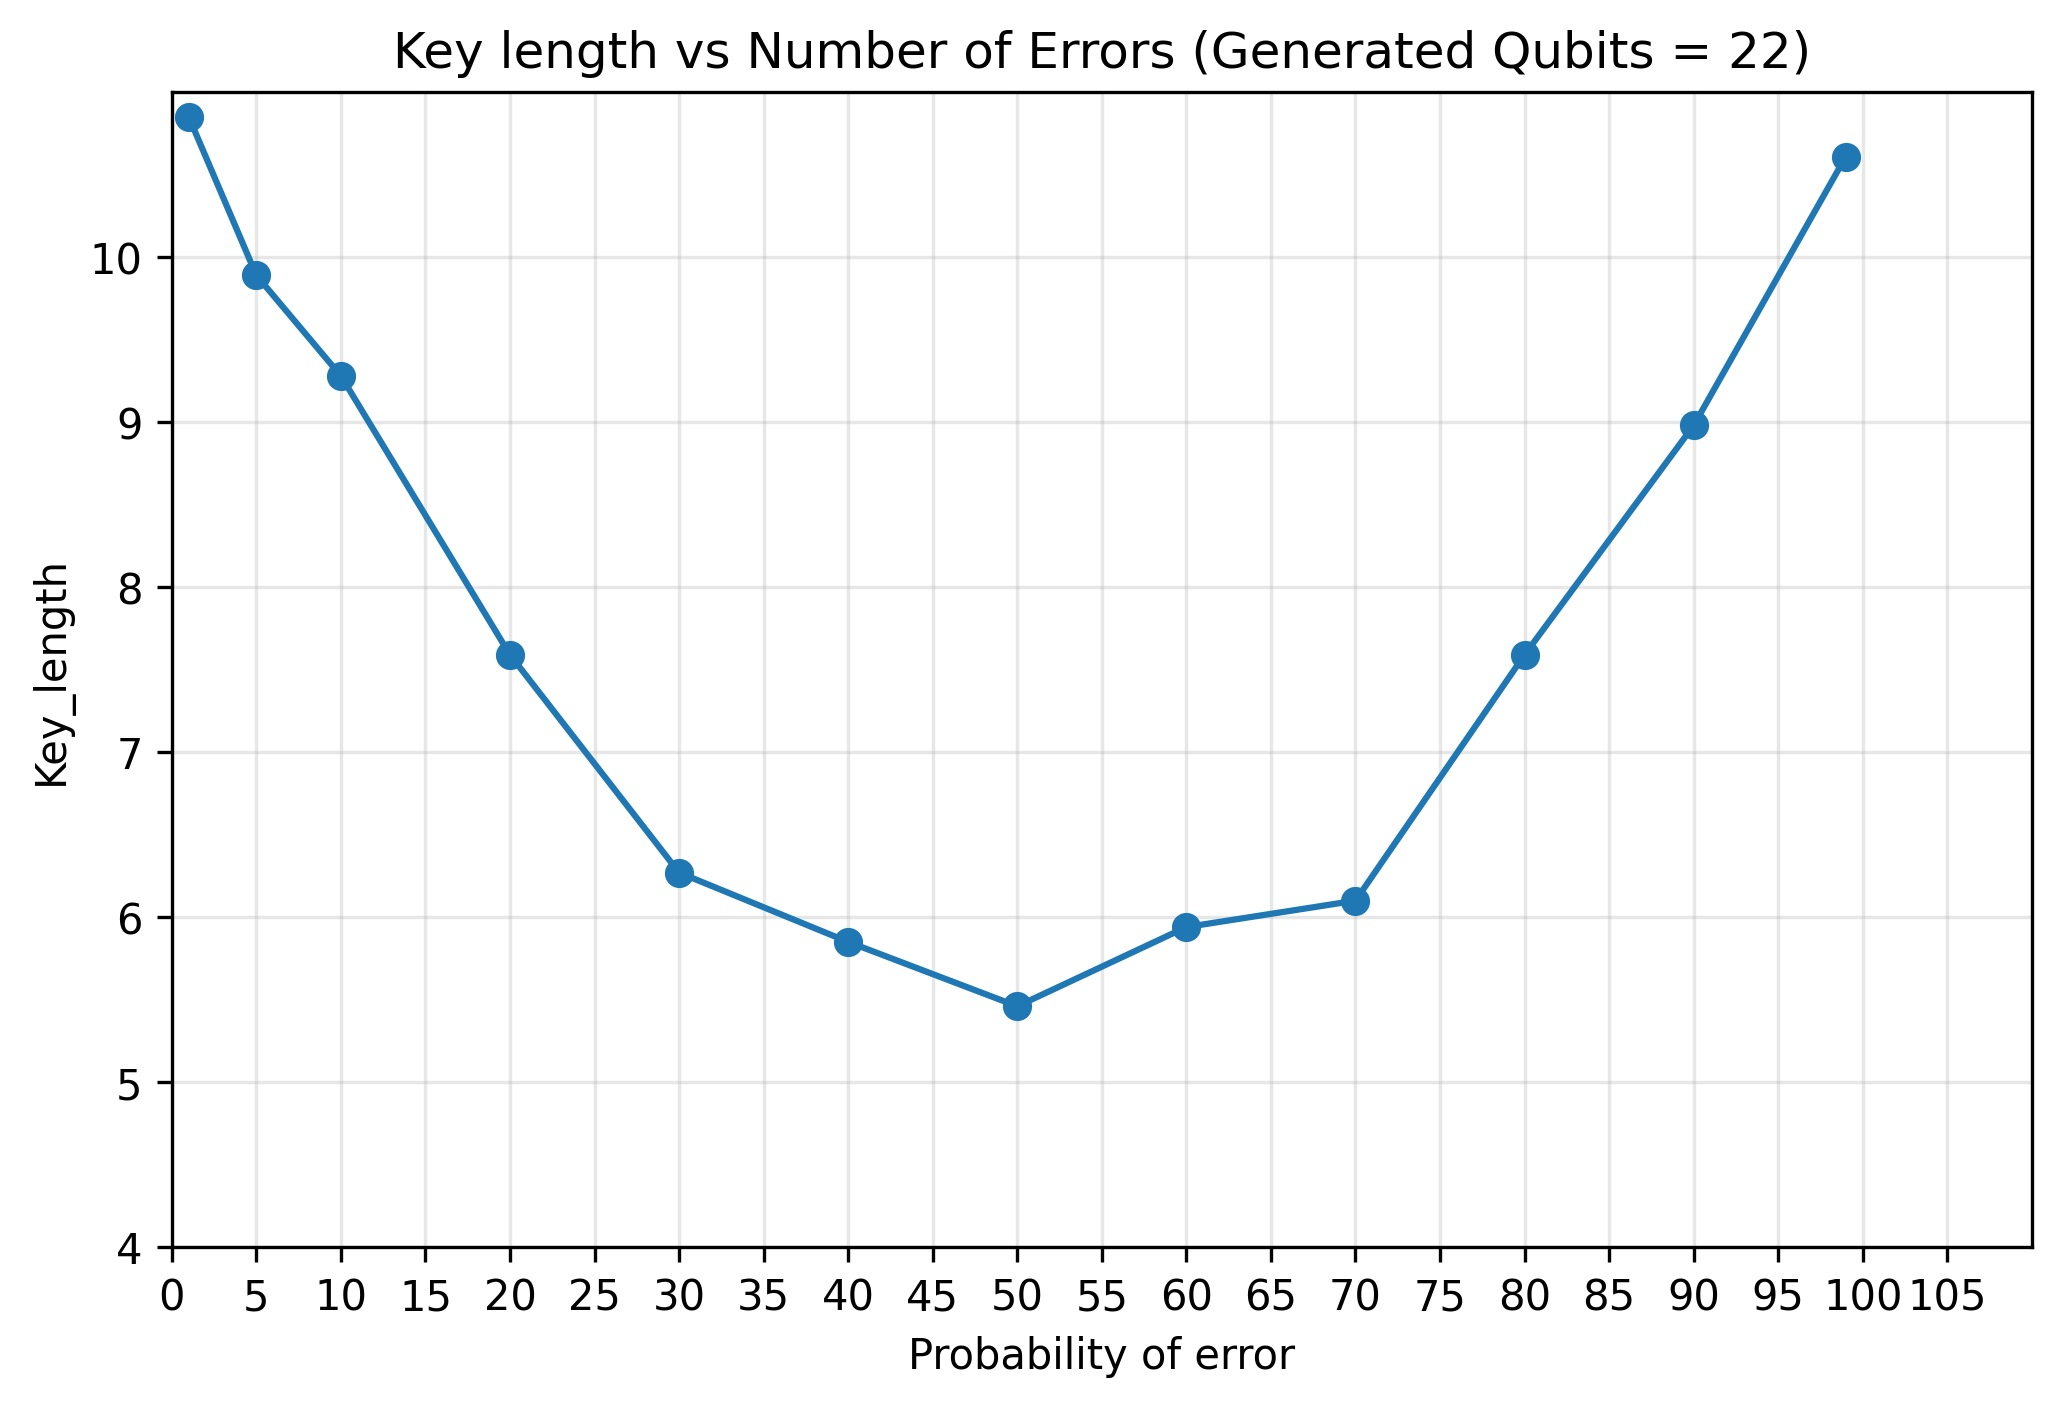
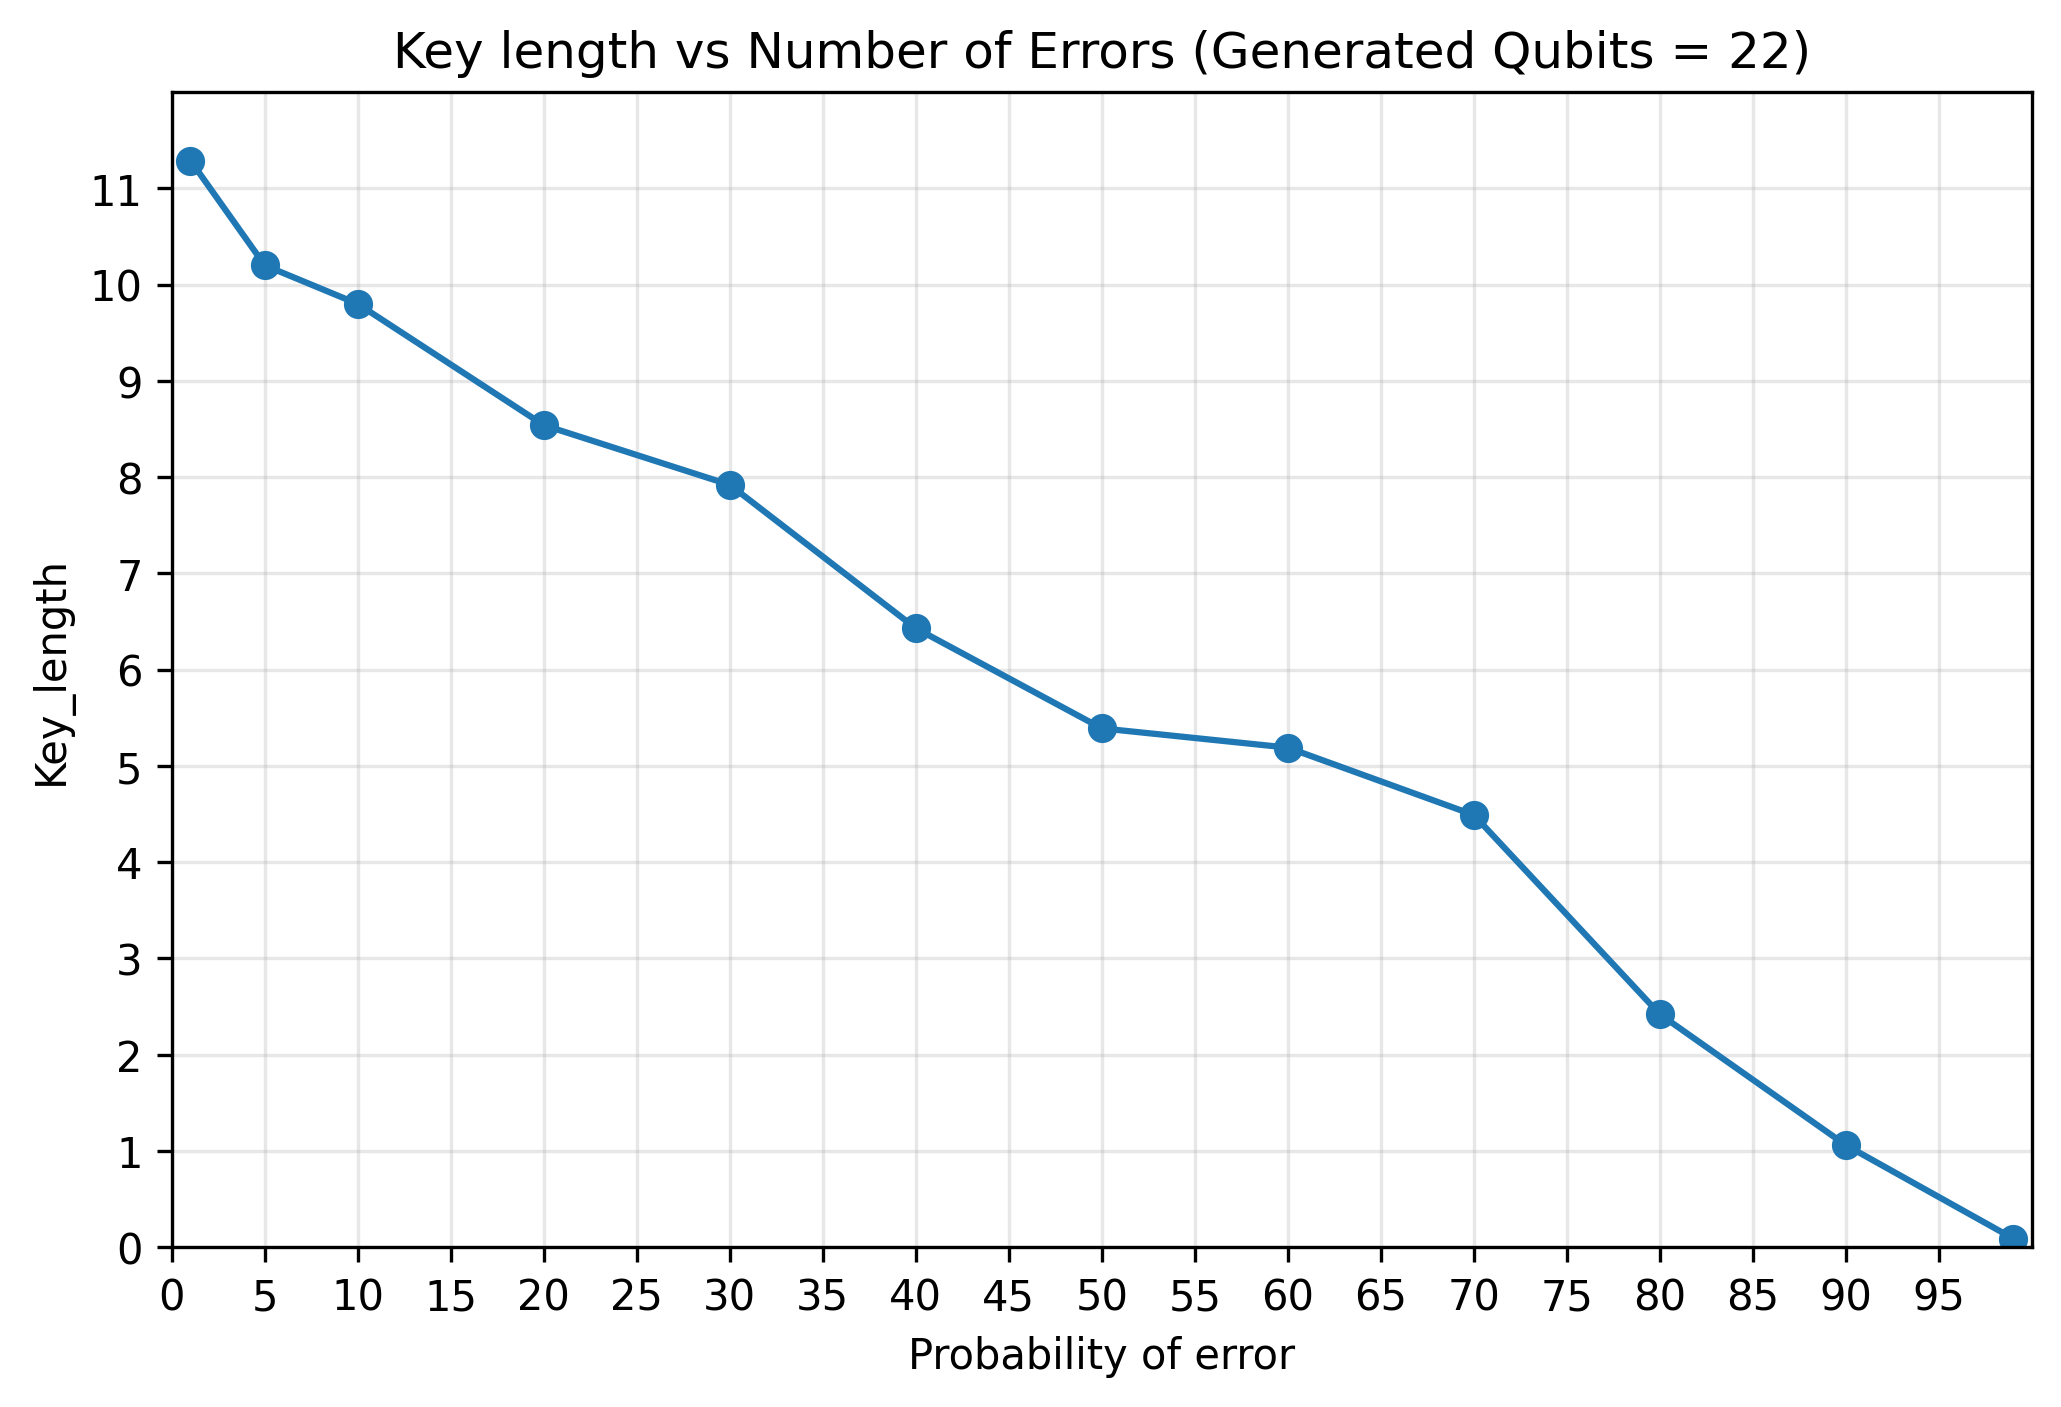
update the simulation figure for the noise model.

diff --git a/figure/prob_err_vs_err_rate_for_linux.py b/figure/prob_err_vs_err_rate_for_linux.py
@@ -1,0 +1,26 @@
+import numpy as np
+import matplotlib.pyplot as plt
+
+qbit = np.array([1, 5, 10, 20, 30, 40, 50, 60, 70, 80, 90, 99])
+err_num = np.array([0.006642968142968144, 0.048651973026973036, 0.08868231768231767, 0.19700629925629923, 0.3214851325145442, 
+0.37023711011210997, 0.4198132284382283, 0.6383777888777887, 0.6963432539682541, 0.7890240192813721, 0.8974145772528125, 0.9930375874125872])
+
+plt.figure(figsize=(8, 5))
+
+plt.plot(qbit, err_num, ls='-', marker='o')
+
+plt.xlim(0, 100)
+plt.ylim(0, 1)
+
+plt.xticks(np.arange(0, 100, 5))
+plt.yticks(np.arange(0, 1, 0.1))
+
+plt.xlabel(r'Probability of error')
+plt.ylabel(r'Number of errors')
+plt.grid(alpha=0.3)
+
+plt.title('Probability of Error vs Error_rate (Generated Qubits = 22)')
+
+plt.savefig('figure/prob_err_vs_err_rate_for_linux.png', format='png', bbox_inches="tight", dpi=300)
+
+plt.show()

diff --git a/figure/prob_err_vs_key_length_for_linux.py b/figure/prob_err_vs_key_length_for_linux.py
@@ -1,0 +1,26 @@
+import numpy as np
+import matplotlib.pyplot as plt
+
+prob_err = np.array([1, 5, 10, 20, 30, 40, 50, 60, 70, 80, 90, 99])
+key_length = np.array([11.29, 10.20, 9.80, 8.54, 7.92, 6.43, 5.39, 5.19, 4.49, 2.42, 1.06, 0.09])
+
+plt.figure(figsize=(8, 5))
+
+plt.plot(prob_err, key_length, ls='-', marker='o')
+
+plt.xlim(1, 100)
+plt.ylim(0, 12)
+
+plt.xticks(np.arange(0, 100, 5))
+plt.yticks(np.arange(0, 12, 1))
+
+plt.xlabel(r'Probability of error')
+plt.ylabel(r'Key_length')
+plt.grid(alpha=0.3)
+
+plt.title('Probability of error vs Key length (Generated Qubits = 22)')
+
+
+plt.savefig('figure/prob_err_vs_key__length_for_linux.png', format='png', bbox_inches="tight", dpi=300)
+
+plt.show()

diff --git a/figure/prob_err_vs_num_err_for_linux.py b/figure/prob_err_vs_num_err_for_linux.py
@@ -2,17 +2,17 @@ import numpy as np
 import matplotlib.pyplot as plt
 
 qbit = np.array([1, 5, 10, 20, 30, 40, 50, 60, 70, 80, 90, 99])
-err_num = np.array([0.19, 1.14, 2.0, 3.66, 4.46, 5.26, 5.39, 5.09, 4.80, 3.56, 1.89, 0.28])
+err_num = np.array([0.07, 0.54, 0.97, 2.08, 3.43, 4.14, 4.74, 6.61, 7.67, 8.91, 9.81, 10.74])
 
 plt.figure(figsize=(8, 5))
 
 plt.plot(qbit, err_num, ls='-', marker='o')
 
-plt.xlim(1, 100)
-plt.ylim(0, 6)
+plt.xlim(0, 100)
+plt.ylim(0, 11)
 
-plt.xticks(np.arange(0, 110, 5))
-plt.yticks(np.arange(0, 6, 0.5))
+plt.xticks(np.arange(0, 100, 5))
+plt.yticks(np.arange(0, 11, 0.5))
 
 plt.xlabel(r'Probability of error')
 plt.ylabel(r'Number of errors')
